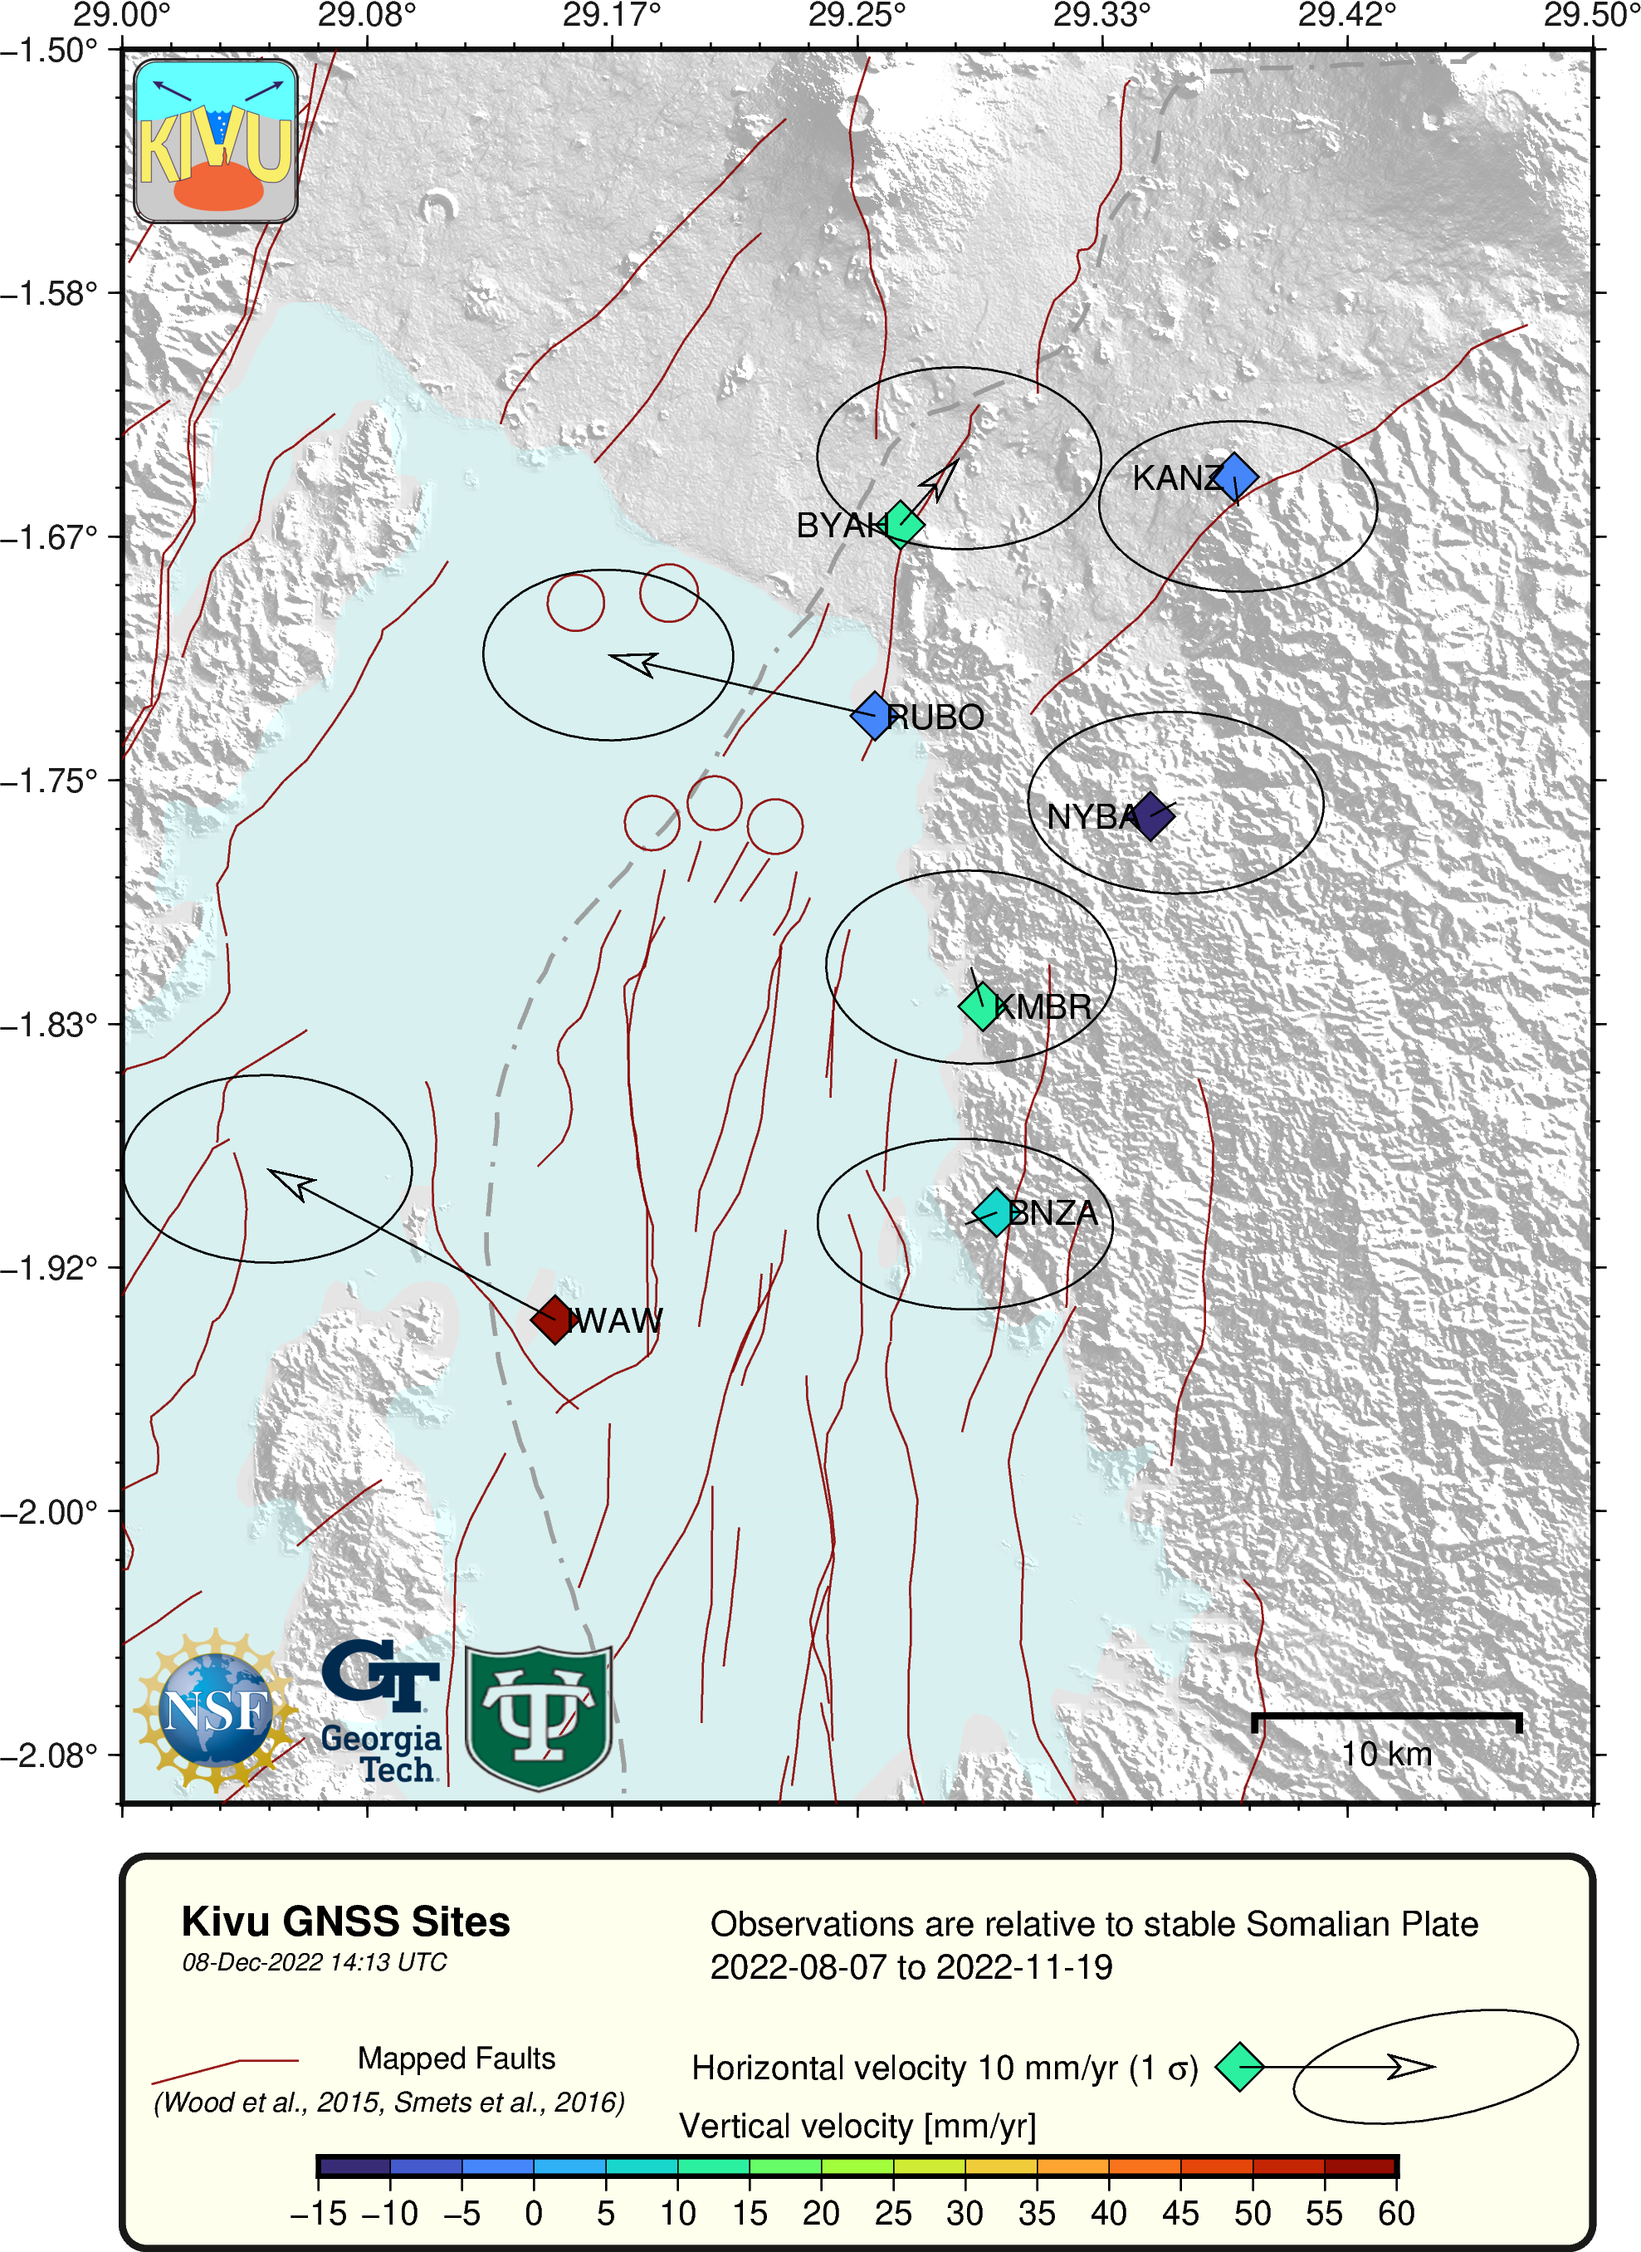
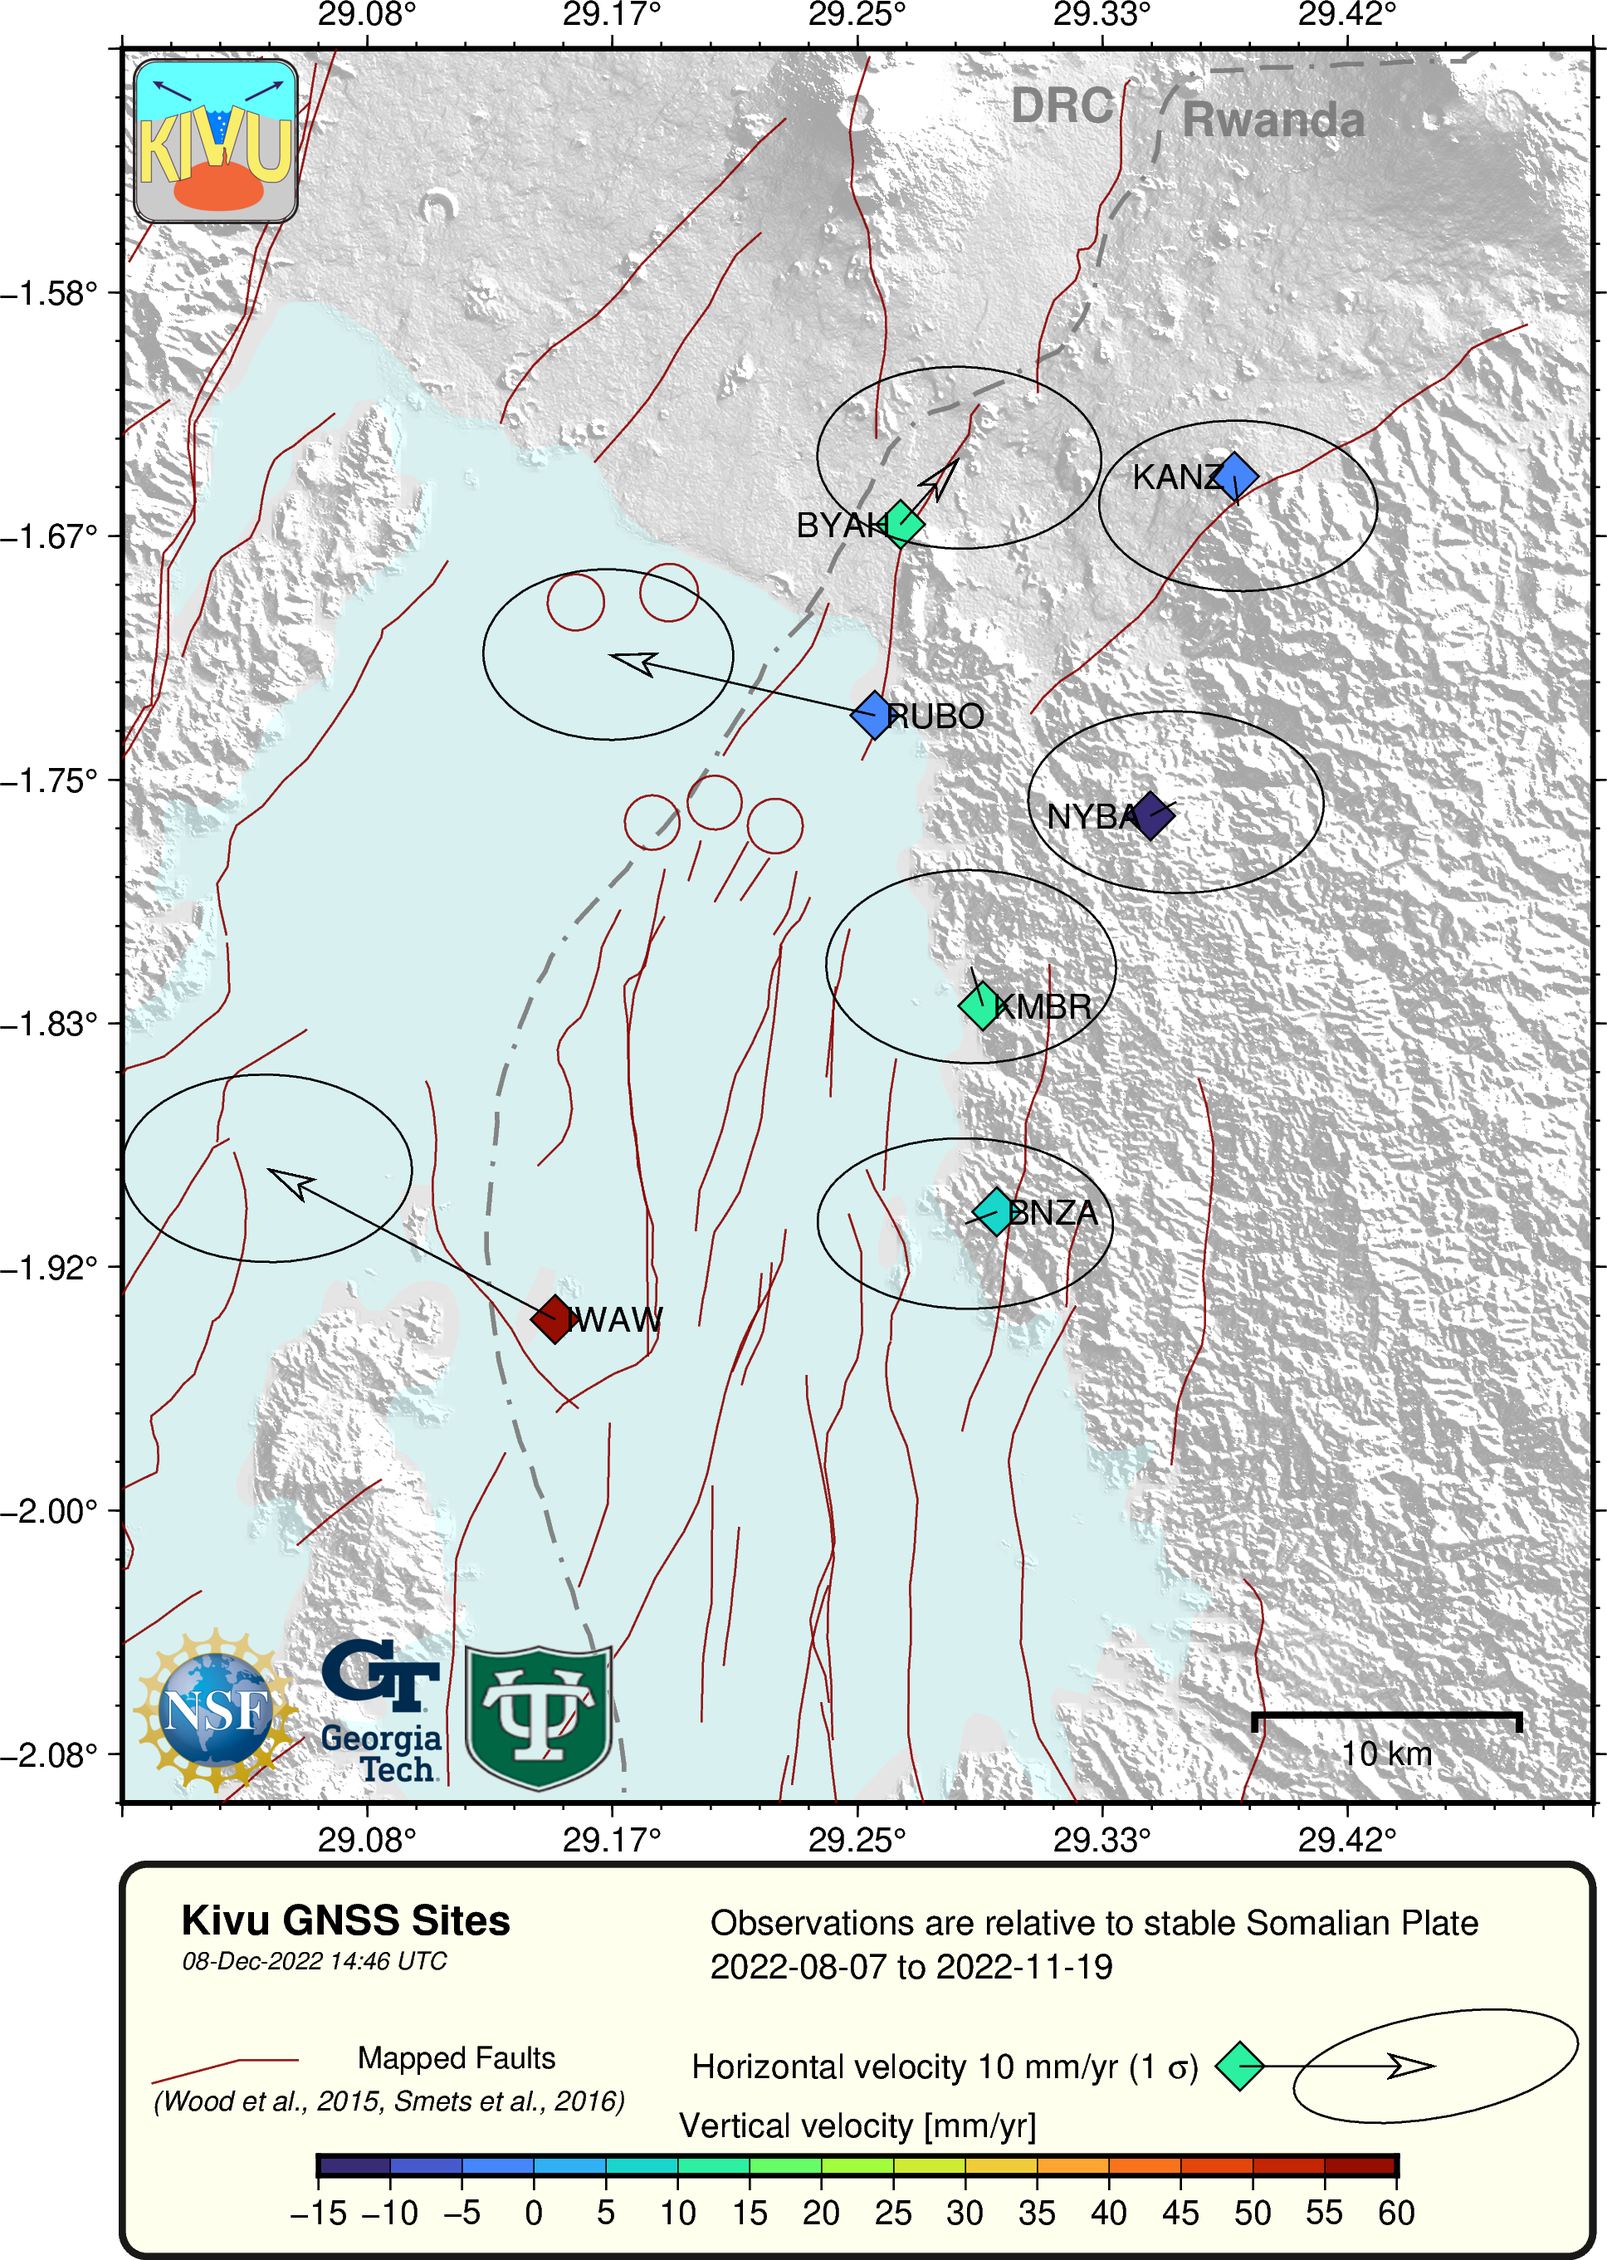
map cleaning

Changed region(s): [[0.0, 0.0, 1.0, 1.0], [0.3409, 0.0, 0.4029, 0.031], [0.2789, 0.2788, 0.3099, 0.3097]]

diff --git a/bin/Kivu_GNSS_Map.py b/bin/Kivu_GNSS_Map.py
@@ -63,11 +63,11 @@ data = pd.concat([data,vdf],ignore_index=True)
 
 fig1=pygmt.Figure()
 pygmt.config(MAP_FRAME_TYPE="plain", # no alternating B&W frame
-             FORMAT_GEO_MAP='ddd.xx') # decimal degrees
+    FORMAT_GEO_MAP='ddd.xx') # decimal degrees
 
 #pygmt.makecpt(series=[1000,4000,500],  #create a topo cpt just for this range (500-4500m)
-#              continuous=True,
-#              cmap='topo')
+#   continuous=True,
+#   cmap='topo')
 
 #fig1.grdimage(DEM,region=region,projection=proj,cmap=mapcpt,shading=True,dpi=300, transparency=60) # Use globe version (all high elev.)
 DEMgrad = pygmt.grdgradient(grid=DEM, azimuth=[0,90], normalize='e.8')
@@ -88,7 +88,7 @@ fig1.grdimage(DEMgrad,region=region,projection=proj,
     transparency=60)
 
 # Legend box -- hardwired :( 
-fig1.plot(x=29.25, y=-2.185, 
+fig1.plot(x=29.25, y=-2.188, 
     style="R15/4/0.25", 
     color="255/255/235", 
     pen="2p,black",
@@ -99,7 +99,6 @@ fig1.plot(x=29.25, y=-2.185,
 # add lake 
 fig1.coast(region=region,  # xmin,xmax,ymin,ymax
     projection=proj,
-    frame=['p','wsen','xa0.1', 'ya.1'], 
     resolution='f', 
     lakes=True,
     water='200/255/255',
@@ -108,49 +107,54 @@ fig1.coast(region=region,  # xmin,xmax,ymin,ymax
 # remap the national borders as dashed lines
 fig1.coast(region=region,  # xmin,xmax,ymin,ymax
     projection=proj,
-    frame=['p','WseN','xa0.1', 'ya.1'], 
     resolution='f', 
-    borders='1/1.2p,150,-.-',
+    borders='1/1.2p,120,-.-',
     transparency=10,
+    )
+# remap the national borders as dashed lines
+fig1.text(text=["DRC","Rwanda"],
+    x=[29.302,29.36],
+    y=[-1.525,-1.53],
+    font="14p,Helvetica-Bold,120",
+    justify="LB", 
+    transparency=10,
+    )
+fig1.basemap(
+    frame=['WSeN','xa0.1i0.02','ya0.1i0.02' ,'+e'], 
     )
 # faults from Cindy
 fig1.plot(data=faults,
     pen="0.5p,darkred",
     transparency=10,
     )
-
 cinc=5  # CPT increment
 pygmt.makecpt(cmap="turbo",  #reverse=True, 
-        continuous=False,
-        series=[round_down(rates.Uvel.min(),cinc),round_up(rates.Uvel.max(),cinc),cinc]
-        #series=[0,60,5]
-        )
-
+    continuous=False,
+    series=[round_down(rates.Uvel.min(),cinc),round_up(rates.Uvel.max(),cinc),cinc]
+    #series=[0,60,5]
+    )
 fig1.plot(x=data.Long,y=data.Lat,
-        no_clip=True,
-        style='d0.5c', 
-        cmap=True,
-        pen='0.5,0', 
-        color=data.Uvel,
-        transparency=0)
-
+    no_clip=True,
+    style='d0.5c', 
+    cmap=True,
+    pen='0.5,0', 
+    color=data.Uvel,
+    transparency=0)
 fig1.velo(data=data,
-        no_clip=True,
-        region=region,
-        pen="0.5p",
-        #zvalue='u', # user-defined before STAT name column in data
-        #cmap=True,
-        spec="e0.2/0.65/10",
-        vector="0.5c+p1p+e"
-        )
-
+    no_clip=True,
+    region=region,
+    pen="0.5p",
+    #zvalue='u', # user-defined before STAT name column in data
+    #cmap=True,
+    spec="e0.2/0.65/10",
+    vector="0.5c+p1p+e"
+    )
 fig1.colorbar(
     #position="jBC", 
     position="JBC+o0c/3.6c+w11c/0.2c",
     #box="+gwhite+p2,black", # white fill
     #frame=['x+lvertical [mm/yr]']
     )
-
 fig1.text(
     text=["Vertical velocity [mm/yr]", "Horizontal velocity 10 mm/yr (1 @~s@~)"],
     no_clip=True,
